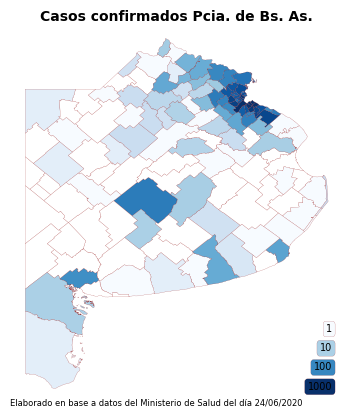
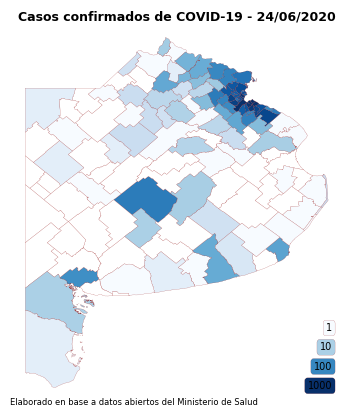
actualización mapas

diff --git a/datos/mapa_bsas.py b/datos/mapa_bsas.py
@@ -3,11 +3,73 @@ import geopandas as gpd
 import pandas as pd
 import numpy as np
 
+
+def mapa_municipios(datos_mapa, columna_datos, ruta_imagen, titulo='', leyenda_pie='', rotulos=True, leyenda_escala=True, maximo_escala_log=3, ancho_pugadas=7, alto_pulgadas=5):
+    columna_municipio = 'Municipio'
+    # calcular logaritmo para usar esos valores para la escala de color del mapa
+    columna_datos_log = 'datos_log'
+    datos_mapa[columna_datos_log] = np.log10(datos_mapa[columna_datos])
+    # paleta de colores, bordes, texto
+    paleta_colores = plt.cm.get_cmap('Blues')
+    paleta_colores.set_under('white')           # valores por debajo del mínimo (ceros)
+    color_fondo = 'white'
+    color_bordes = 'darkred'
+    grosor_bordes = 0.1
+    tamanio_rotulos=7
+    tamanio_titulo=9
+    tamanio_leyenda=6
+    # figura, tamaño, ejes
+    fig, ax = plt.subplots(1, figsize=(ancho_pugadas, alto_pulgadas))       # crear figura y asignar tamaño
+    plt.axis('equal')                                                       # mantener proporción latitud y longitud
+    ax.set_axis_off()                                                       # quitar ejes
+    plt.gca().xaxis.set_major_locator(plt.NullLocator())
+    plt.gca().yaxis.set_major_locator(plt.NullLocator())
+    plt.margins(0.05,0.05)                                                  # margen alrededor del mapa
+    fig.patch.set_facecolor(color_fondo)                                    # color del fondo
+    # datos para el mapa
+    ax = datos_mapa.plot(
+        column=columna_datos_log,                                   # valores a usar para la escala de colores
+        cmap=paleta_colores, vmin=0, vmax=maximo_escala_log,        # escala de colores entre valores log 0 y 3 (entre 1 y 1000)
+        edgecolor=color_bordes, linewidth=grosor_bordes,            # bordes
+        ax=ax)
+    # rótulos para cada municipio
+    if(rotulos):
+        for idx, fila in datos_mapa.iterrows():
+            if(fila[columna_datos]>0):
+                plt.text(
+                    fila['Longitud'], fila['Latitud'],                                 # ubicación
+                    fila[columna_municipio]+'\n'+str(int(fila[columna_datos])),              # texto
+                    {'color':'black', 'fontsize':tamanio_rotulos, 'ha':'center', 'va':'center'},     # formato
+                    bbox=dict(boxstyle="round", facecolor='lightgrey', edgecolor='white', alpha=0.5, linewidth=grosor_bordes)           # cuadro de texto
+                )
+    # leyendas
+    izquierda, derecha = plt.xlim()     # límites del mapa en x
+    abajo, arriba = plt.ylim()          # límites del mapa en y
+    plt.text((izquierda+derecha)/2, arriba, titulo, {'color': 'black', 'fontsize': tamanio_titulo, 'ha': 'center', 'fontweight': 'bold'})
+    plt.text(izquierda, abajo, leyenda_pie, {'color': 'black', 'fontsize': tamanio_leyenda})
+    # leyenda rangos de colores
+    if(leyenda_escala):
+        for i in range(4):
+            valor = 10**i
+            color = paleta_colores(i/3)
+            posicion_y = abajo - (4-i) * (abajo-arriba)/20
+            posicion_x = derecha - (derecha-izquierda)/30
+            plt.text(
+                posicion_x, posicion_y,
+                str(valor),
+                {'color':'black', 'fontsize':tamanio_rotulos, 'ha':'right', 'va':'center'},
+                bbox=dict(boxstyle="round", facecolor=color, edgecolor=color_bordes, linewidth=0.1))
+    # guardar mapa
+    plt.savefig(ruta_imagen, facecolor=fig.get_facecolor(), bbox_inches = 'tight', pad_inches = 0.1)
+
+
+
+# mapas
+
 carpeta_origen = './'
 carpeta_destino = carpeta_origen
 archivo_datos_mapa = 'kml_municipios/municipios.shp'
 archivo_casos_municipios = 'datos_minsal_acumulados_municipios_bsas.csv'
-archivo_destino_imagen = 'mapa_casos_region.png'
 
 # leer datos mapa base
 ruta = carpeta_origen + archivo_datos_mapa
@@ -24,108 +86,24 @@ datos_casos_municipios = pd.read_csv(ruta)
 # unir la tabla de casos de municipios de la pcia de bs as y los datos del mapa base
 datos_mapa = datos_mapa.merge(datos_casos_municipios, left_on='NAM', right_on='Municipio', how='left')
 # calcular casos totales
-datos_mapa['total']=datos_mapa['Activo']+datos_mapa['Fallecido']+datos_mapa['Recuperado']
-# calcular logaritmo para usar esos valores para la escala de color del mapa
-datos_mapa['log_total'] = np.log10(datos_mapa['total'])
+datos_mapa['Total']=datos_mapa['Activo']+datos_mapa['Fallecido']+datos_mapa['Recuperado']
 # fecha de última actualización
 ultima_actualizacion = datos_mapa.ix[1, 'ultima_actualizacion']
 
 
-# mapas
-
-# paleta de colores
-paleta_colores = plt.cm.get_cmap('Blues')
-paleta_colores.set_under('white')                   # valores por debajo del mínimo en color blanco
-color_fondo = 'white'
-color_bordes = 'darkred'
-
-
-# mapa provincia
-# figura, tamaño, ejes
-fig, ax = plt.subplots(1, figsize=(4.3, 5))       # crear figura y asignar tamaño
-plt.axis('equal')                               # mantener proporción latitud y longitud
-ax.set_axis_off()                               # quitar ejes
-plt.gca().xaxis.set_major_locator(plt.NullLocator())
-plt.gca().yaxis.set_major_locator(plt.NullLocator())
-plt.margins(0.05,0.05)                          # margen alrededor del mapa
-fig.patch.set_facecolor(color_fondo)               # color del fondo
-# datos para el mapa
-ax = datos_mapa.plot(
-    column='log_total',                         # valores a usar para la escala de colores
-    cmap=paleta_colores, vmin=0, vmax=3,        # escala de colores entre valores log 0 y 3 (entre 1 y 1000)
-    edgecolor=color_bordes, linewidth=0.1,          # color de los bordes
-    ax=ax
-    )
-# leyendas
-izquierda, derecha = plt.xlim()     # límites del mapa en x
-abajo, arriba = plt.ylim()          # límites del mapa en y
-plt.text((izquierda+derecha)/2, arriba, 'Casos confirmados Pcia. de Bs. As.', {'color': 'black', 'fontsize': 10, 'ha': 'center', 'fontweight': 'bold'})
-plt.text(izquierda, abajo, 'Elaborado en base a datos del Ministerio de Salud del día '+ultima_actualizacion, {'color': 'black', 'fontsize': 6})
-# leyenda rangos de colores 
-for i in range(4):
-    valor = 10**i
-    color = paleta_colores(i/3)
-    posicion_y = abajo - (4-i) * (abajo-arriba)/20
-    posicion_x = derecha - (derecha-izquierda)/30
-    plt.text(
-        posicion_x, posicion_y,
-        str(valor),
-        {'color':'black', 'fontsize':7, 'ha':'right', 'va':'center'},
-        bbox=dict(boxstyle="round", facecolor=color, edgecolor=color_bordes, linewidth=0.1)
-    )
-# guardar y mostrar mapa
+# mapa 1: provincia bs as
+titulo = 'Casos confirmados de COVID-19 - '+ultima_actualizacion
+leyenda = 'Elaborado en base a datos abiertos del Ministerio de Salud'
 ruta_imagen = carpeta_destino + 'mapa_casos_provincia.png'
-plt.savefig(ruta_imagen, facecolor=fig.get_facecolor(), bbox_inches = 'tight', pad_inches = 0.1)
+# dibujar mapa
+mapa_municipios(datos_mapa, 'Total', ruta_imagen, titulo, leyenda, rotulos=False, leyenda_escala=True, maximo_escala_log=3, ancho_pugadas=4.3, alto_pulgadas=5)
 
-
-# mapa region centro-sudeste
-
+# mapa 2: region centro-sudeste
+titulo = 'Casos confirmados de COVID-19 - '+ultima_actualizacion
+leyenda = 'Elaborado en base a datos abiertos del Ministerio de Salud'
+ruta_imagen = carpeta_destino + 'mapa_casos_region.png'
 # filtrar por latitud y longitud
 datos_mapa = datos_mapa.loc[(datos_mapa['Latitud']<-35.7) & (datos_mapa['Longitud']>-60.8)]
-
 # dibujar mapa
-# figura, tamaño, ejes
-fig, ax = plt.subplots(1, figsize=(7, 5))       # crear figura y asignar tamaño
-plt.axis('equal')                               # mantener proporción latitud y longitud
-ax.set_axis_off()                               # quitar ejes
-plt.gca().xaxis.set_major_locator(plt.NullLocator())
-plt.gca().yaxis.set_major_locator(plt.NullLocator())
-plt.margins(0.05,0.05)                          # margen alrededor del mapa
-fig.patch.set_facecolor(color_fondo)               # color del fondo
-# datos para el mapa
-ax = datos_mapa.plot(
-    column='log_total',                         # valores a usar para la escala de colores
-    cmap=paleta_colores, vmin=0, vmax=3,        # escala de colores entre valores log 0 y 3 (entre 1 y 1000)
-    edgecolor=color_bordes, linewidth=0.1,          # color de los bordes
-    ax=ax
-    )
-# rótulos para cada municipio
-for idx, fila in datos_mapa.iterrows():
-    if(fila['total']>0):
-        plt.text(
-            fila['Longitud'], fila['Latitud'],                                                      # ubicación
-            fila['Municipio']+'\n'+str(int(fila['total'])),                                         # texto
-            {'color':'black', 'fontsize':7, 'ha':'center', 'va':'center'},     # formato
-            bbox=dict(boxstyle="round", facecolor='lightgrey', edgecolor='white', alpha=0.5, linewidth=0.1)           # cuadro de texto
-        )
-# leyendas
-izquierda, derecha = plt.xlim()     # límites del mapa en x
-abajo, arriba = plt.ylim()          # límites del mapa en y
-plt.text((izquierda+derecha)/2, arriba, 'Casos confirmados en la región', {'color': 'black', 'fontsize': 10, 'ha': 'center', 'fontweight': 'bold'})
-plt.text(izquierda, abajo, 'Elaborado en base a datos del Ministerio de Salud del día '+ultima_actualizacion, {'color': 'black', 'fontsize': 6})
-# leyenda rangos de colores 
-for i in range(4):
-    valor = 10**i
-    color = paleta_colores(i/3)
-    posicion_y = abajo - (4-i) * (abajo-arriba)/20
-    posicion_x = derecha - (derecha-izquierda)/30
-    plt.text(
-        posicion_x, posicion_y,
-        str(valor),
-        {'color':'black', 'fontsize':7, 'ha':'right', 'va':'center'},
-        bbox=dict(boxstyle="round", facecolor=color, edgecolor=color_bordes, linewidth=0.1)
-    )
-# guardar y mostrar mapa
-ruta_imagen = carpeta_destino + archivo_destino_imagen
-plt.savefig(ruta_imagen, facecolor=fig.get_facecolor(), bbox_inches = 'tight', pad_inches = 0.1)
-#plt.show()
+mapa_municipios(datos_mapa, 'Total', ruta_imagen, titulo, leyenda, rotulos=True, leyenda_escala=True, maximo_escala_log=3, ancho_pugadas=7, alto_pulgadas=5)
+
